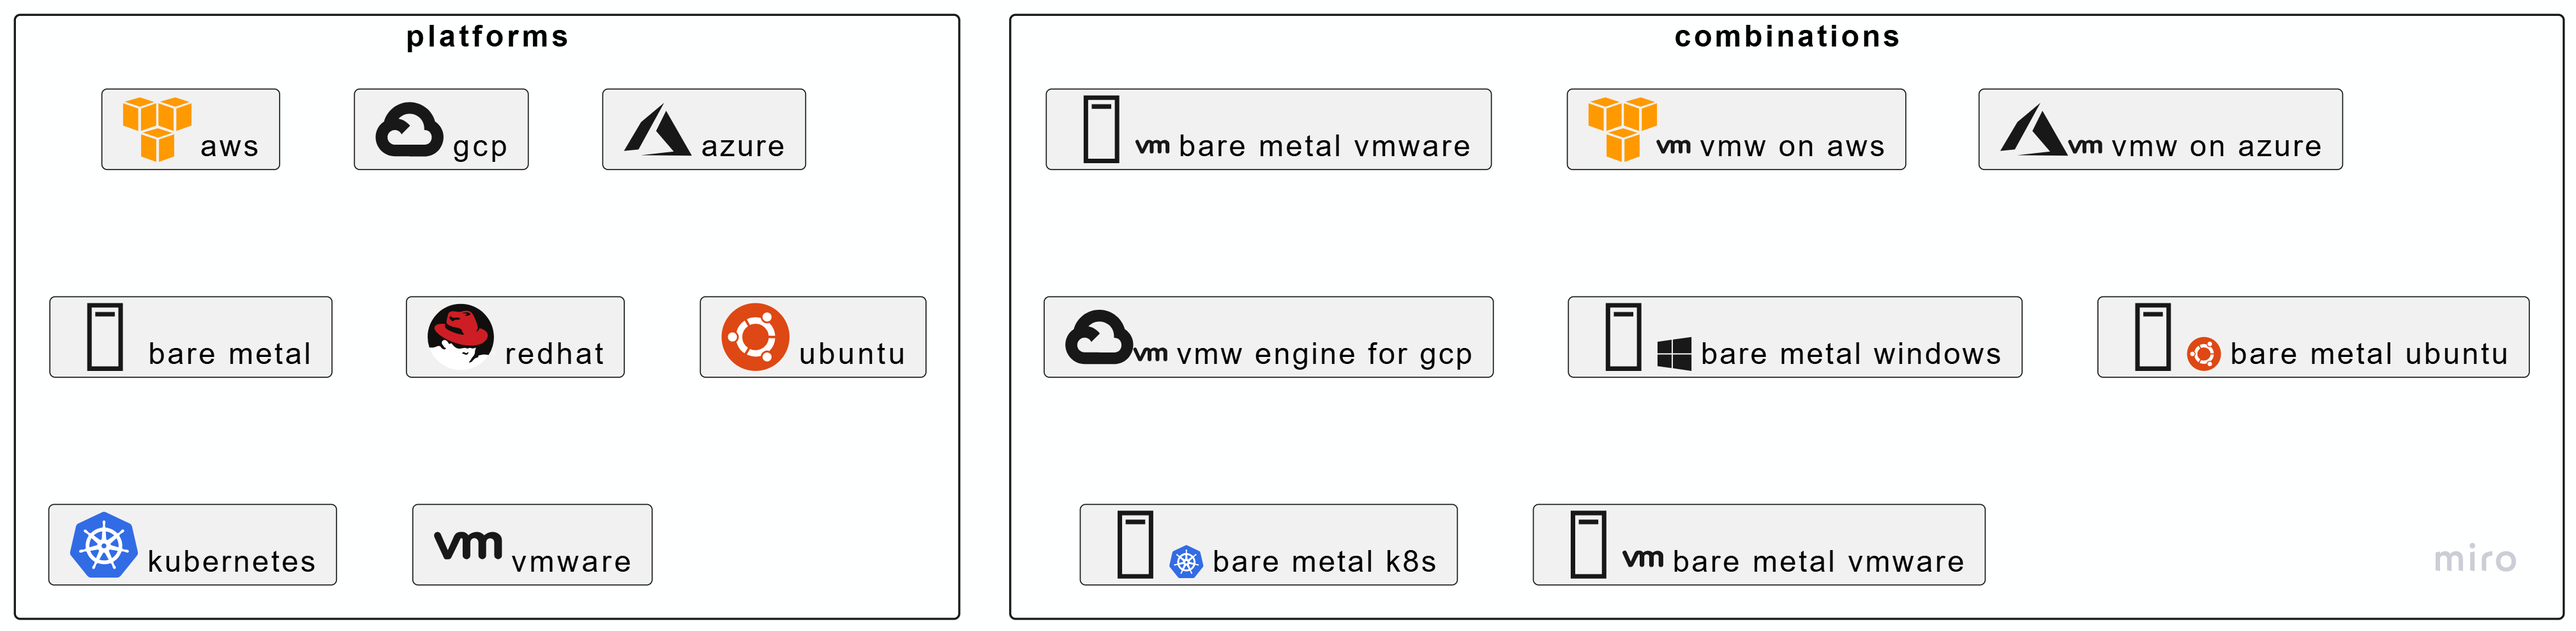
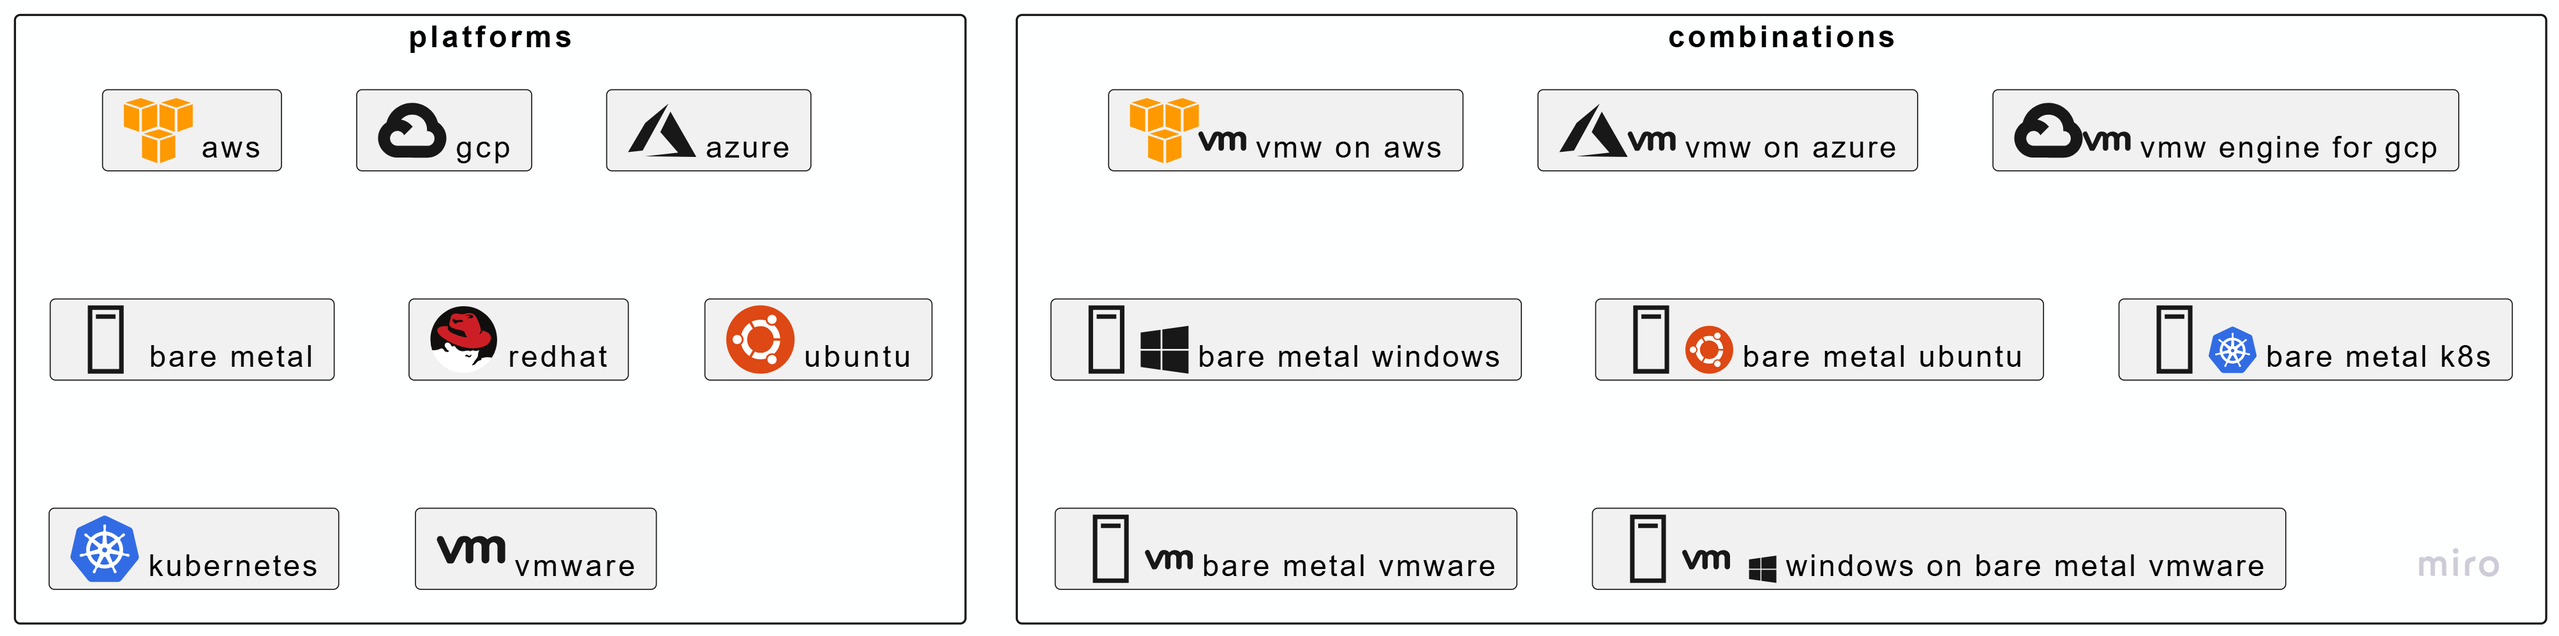
vmw fix

diff --git a/README.md b/README.md
@@ -269,17 +269,20 @@ card "<$vmware> vmware"
 }
 
 rectangle combinations{
-card "<$server-tower><$vmware*.5> bare metal vmware"
-card "<$aws><$vmware*.5> vmw on aws"
-card "<$azure><$vmware*.5> vmw on azure"
-card "<$gcp><$vmware*.5> vmw engine for gcp"
-card "<$server-tower><$windows*.5> bare metal windows"
-card "<$server-tower><$ubuntu*.5> bare metal ubuntu"
-card "<$server-tower><$windows*.5> bare metal windows"
-card "<$server-tower><$kubernetes*.5> bare metal k8s"
-card "<$server-tower><$vmware*.6> bare metal vmware"
+card "<$aws><$vmware*.7> vmw on aws"
+card "<$azure><$vmware*.7> vmw on azure"
+card "<$gcp><$vmware*.7> vmw engine for gcp"
+card "<$server-tower><$windows*.7> bare metal windows"
+card "<$server-tower><$ubuntu*.7> bare metal ubuntu"
+card "<$server-tower><$windows*.7> bare metal windows"
+card "<$server-tower><$kubernetes*.7> bare metal k8s"
+card "<$server-tower><$vmware*.7> bare metal vmware"
+card "<$server-tower><$vmware*.7>  <$windows*.4> windows on bare metal vmware"
 }
 @enduml
+
+
+
 
 
 ```
